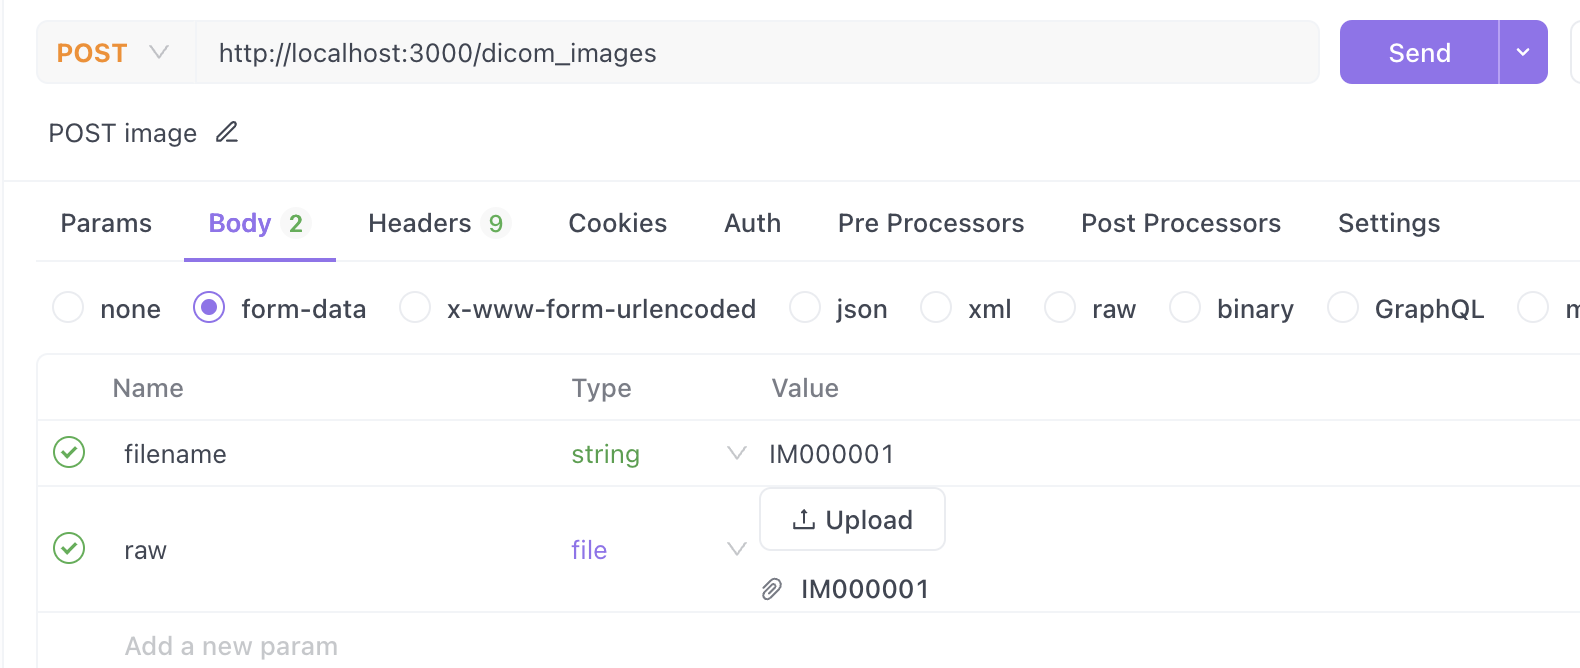
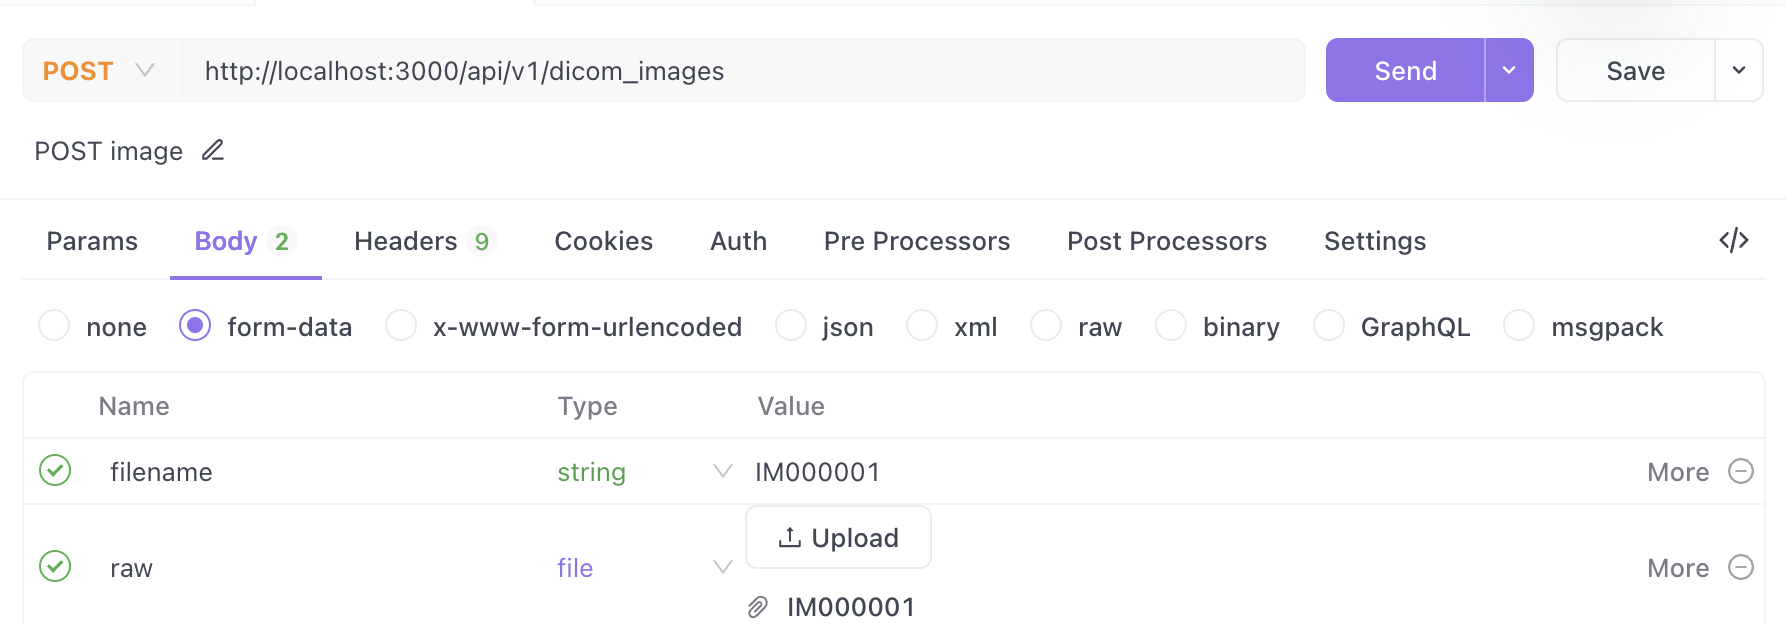
[AFTER DEADLINE] Add api versioning

diff --git a/app/controllers/api/v1/dicom_images_controller.rb b/app/controllers/api/v1/dicom_images_controller.rb
@@ -1,0 +1,33 @@
+module Api::V1
+  class DicomImagesController < ApplicationController
+    def create
+      dicom_image = DicomImage.new(
+        filename: dicom_image_params[:filename],
+      ).set_content_from_string(dicom_image_params[:raw].read)
+      dicom_image.save_locally
+      render json: dicom_image, status: :created
+    end
+
+    def png
+      id = params[:id]
+      dcm_image = DicomImage.load(id)
+      # TODO: Fix in dicom_image so can enable here
+      # send_file dcm_image.png
+      render plain: "WIP - investigating issue with library and RMagick", status: :ok
+    end
+
+    def elements
+      id = params[:id]
+      tag = params[:tag]
+
+      dcm_image = DicomImage.load(id)
+      render json: dcm_image.element_for_tag(tag), status: :ok
+    end
+
+    private
+
+    def dicom_image_params
+      params.permit(:raw, :filename)
+    end
+  end
+end

diff --git a/config/routes.rb b/config/routes.rb
@@ -1,7 +1,11 @@
 Rails.application.routes.draw do
-  post '/dicom_images', to: 'dicom_images#create'
+  namespace :api do
+    namespace :v1 do
+      post '/dicom_images', to: 'dicom_images#create'
 
-  get '/dicom_images/:id/png', to: 'dicom_images#png'
+      get '/dicom_images/:id/png', to: 'dicom_images#png'
 
-  get '/dicom_images/:id/dicom_elements/', to: 'dicom_images#elements'
+      get '/dicom_images/:id/dicom_elements/', to: 'dicom_images#elements'
+    end
+  end
 end

diff --git a/README.md b/README.md
@@ -35,12 +35,12 @@ Example inputs in Apidog:
 Curl version:
 
 ```
-curl --location --request POST 'http://localhost:3000/dicom_images' \
+curl --location --request POST 'http://localhost:3000/api/v1/dicom_images' \
 --header 'User-Agent: Apidog/1.0.0 (https://apidog.com)' \
 --header 'Accept: */*' \
 --header 'Host: localhost:3000' \
 --header 'Connection: keep-alive' \
---header 'Content-Type: multipart/form-data; boundary=--------------------------720767563339980335052083' \
+--header 'Content-Type: multipart/form-data; boundary=--------------------------519424285481715771289683' \
 --form 'filename="IM000001"' \
 --form 'raw=@"/Users/clairejanke/Downloads/IM000001"'
 ```
@@ -62,13 +62,13 @@ Example response:
 }
 ```
 
-### GET /dicom_images/:id/dicom_elements/?tag=XXXX,XXXX
+### GET /api/<version>/dicom_images/:id/dicom_elements/?tag=XXXX,XXXX
 
 Given an id for a DicomImage (returned upon creation of an image) and a tag, returns element corresponding to tag.
 
 Example request:
 
-`GET http://localhost:3000/dicom_images/8/dicom_elements/?tag=0029,0010`
+`GET http://localhost:3000/api/v1/dicom_images/8/dicom_elements/?tag=0029,0010`
 
 Example response:
 
@@ -78,13 +78,13 @@ Example response:
 }
 ```
 
-### GET /dicom_images/:id/png
+### GET api/<version>/dicom_images/:id/png
 
 Currently not functional, but intention is that given an id for a DicomImage, returns a png file (format defaulting to `application/octet-stream`).
 
 Example request:
 
-`GET http://localhost:3000/dicom_images/7/png`
+`GET http://localhost:3000/api/v1/dicom_images/7/png`
 
 Currently returns "WIP - investigating issue with library and RMagick" but would normally download the file directly. In testing I was able to send the DicomImage back, skipping the PNG processing.
 
@@ -95,7 +95,7 @@ Currently returns "WIP - investigating issue with library and RMagick" but would
 - More thorough input validation
 - Error codes / handling for if it's not valid Dicom, if the system was unable to store the file, etc.
 - More unit tests
-- Versioning
+- ~~Versioning~~ Complete
 
 ## Somewhat outside the scope of the assignment:
 
